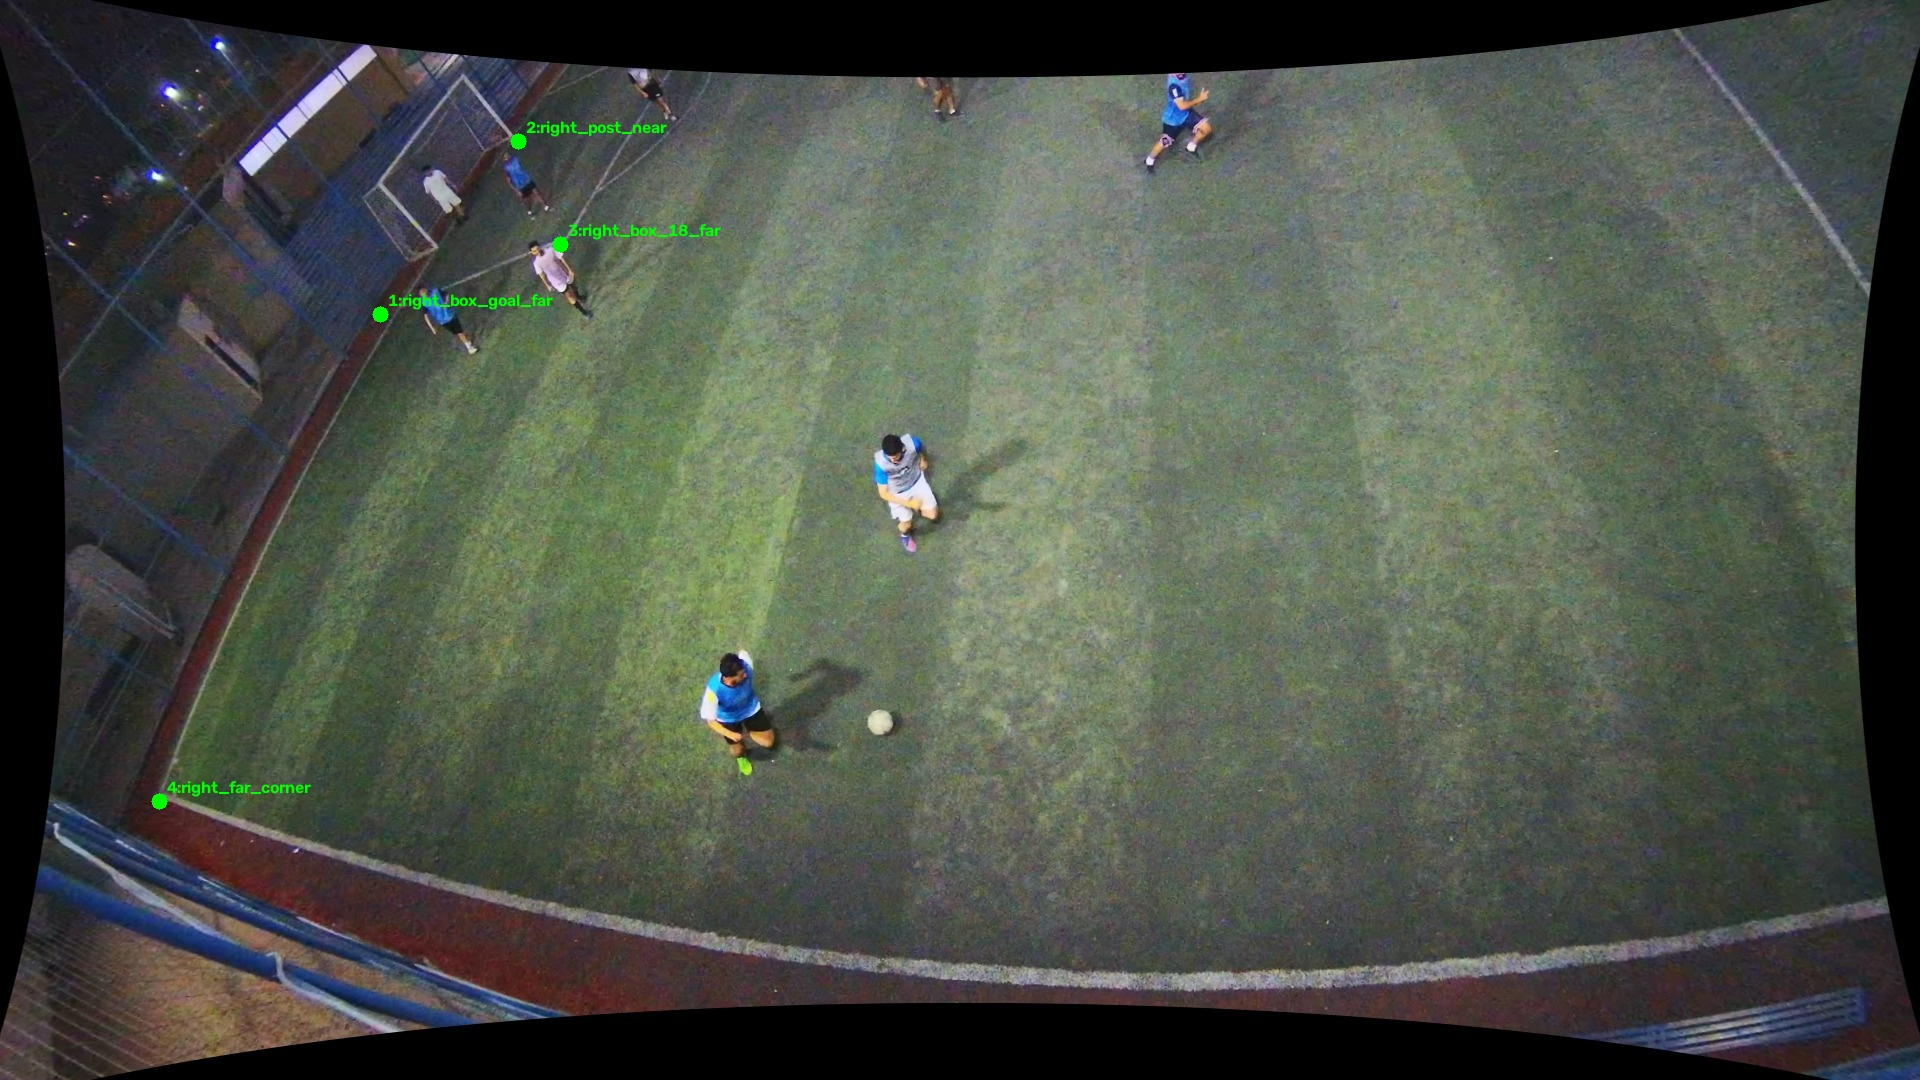
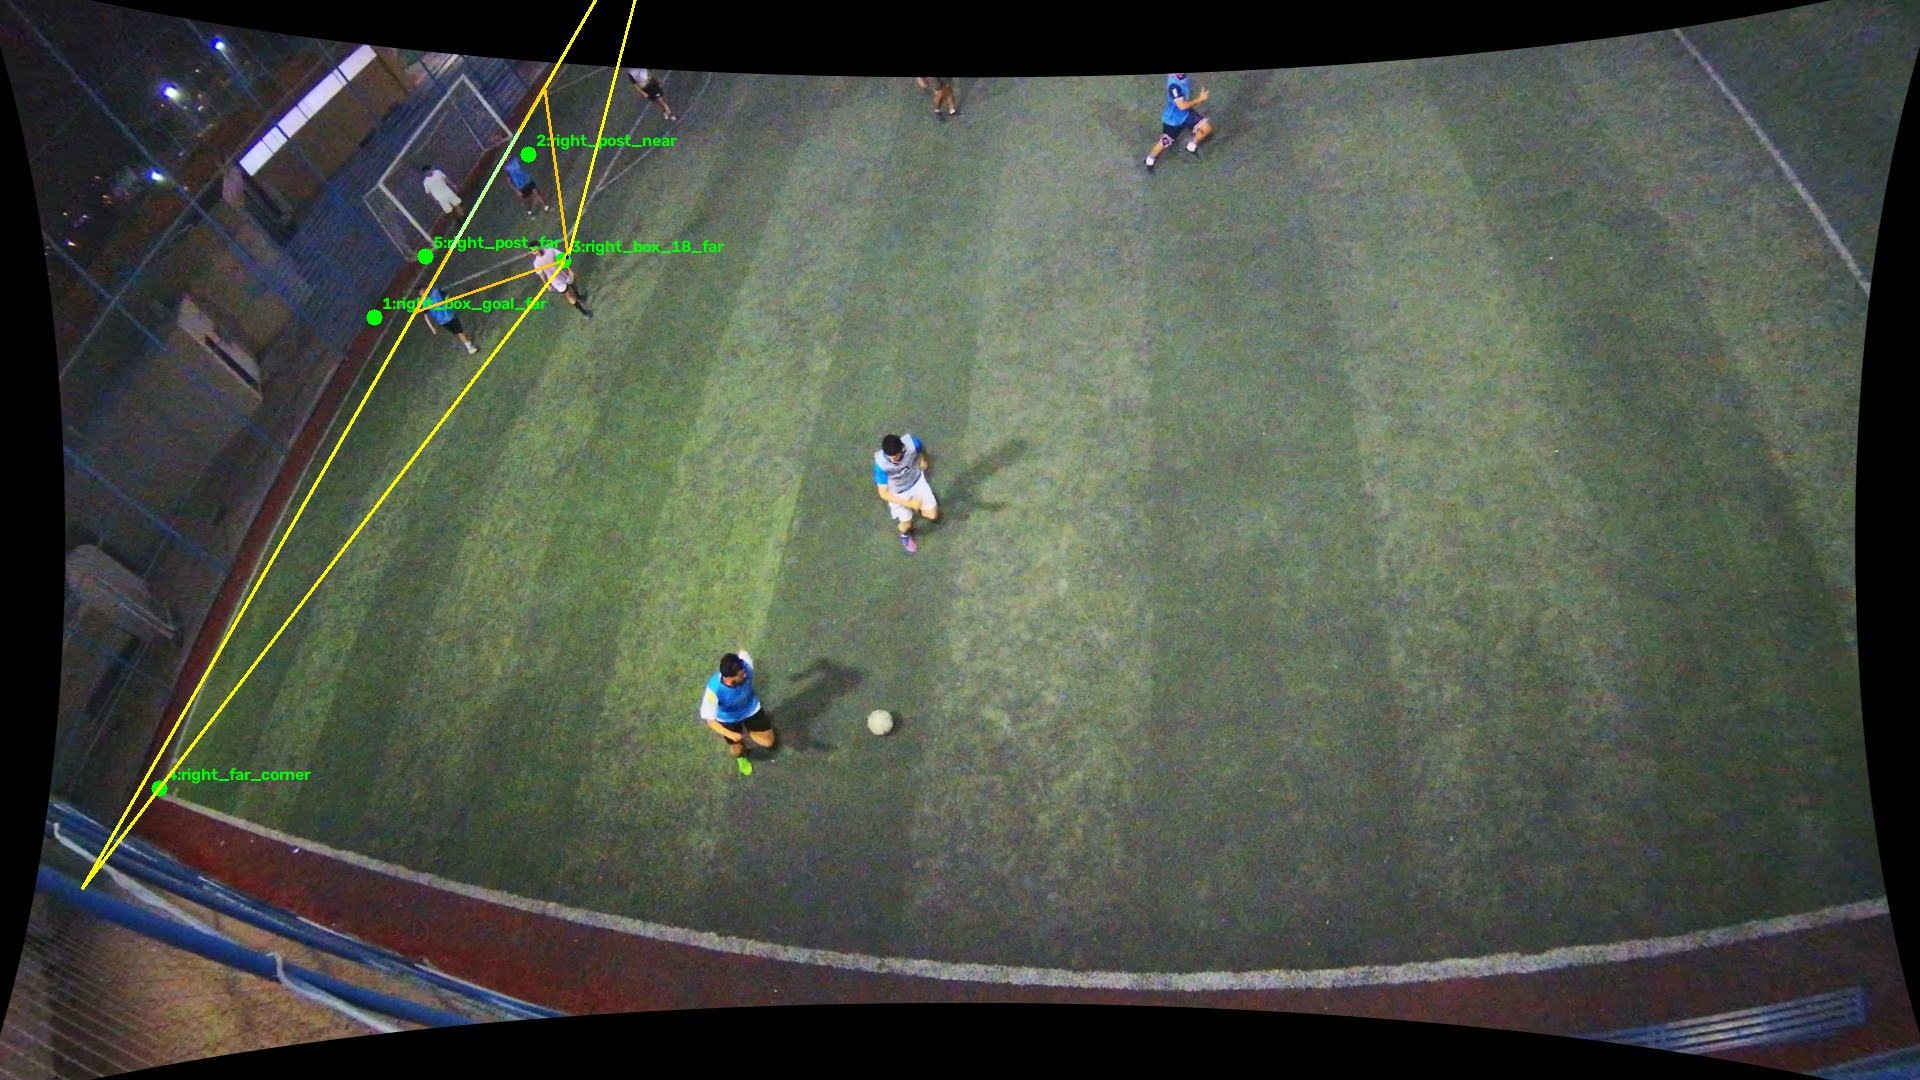
Wire Brown undistort into Match 3 map_ball_box for defished cams.
P7–P10 detections are undistorted with locked calib params before H so pitch maps match landmark stills; include A/B harness and tighter P9 clicks.

diff --git a/scripts/gold_set/test_match3_xy.py b/scripts/gold_set/test_match3_xy.py
@@ -37,11 +37,104 @@ def test_roundtrip() -> None:
         rec = load_calib(cam)
         if rec is None:
             raise AssertionError(f"missing calib {cam}")
+        errs = []
         for img, pitch in zip(rec["image_points"], rec["pitch_points"]):
             got = apply_H(rec["H"], img[0], img[1])
             err = ((got[0] - pitch[0]) ** 2 + (got[1] - pitch[1]) ** 2) ** 0.5
-            if err > 0.15:
-                raise AssertionError(f"{cam} roundtrip {err:.3f}m")
+            errs.append(err)
+        good = sum(1 for e in errs if e <= 0.25)
+        if rec.get("undistort"):
+            # Defish clicks can leave one outlier; H must still nail ≥3 junctions.
+            if good < 3:
+                raise AssertionError(f"{cam} only {good}/≥3 inliers≤0.25m {errs}")
+            if sorted(errs)[2] > 0.25:
+                raise AssertionError(f"{cam} 3rd-best err {sorted(errs)[2]:.3f}m")
+        else:
+            if max(errs) > 0.15:
+                raise AssertionError(f"{cam} roundtrip {max(errs):.3f}m")
+
+
+def test_undistort_params_on_defish_cams() -> None:
+    from src.mapping.match3_xy import calib_undistort_params
+
+    for cam in ("P7", "P8", "P9", "P10"):
+        rec = load_calib(cam)
+        if calib_undistort_params(rec) is None:
+            raise AssertionError(f"{cam} should lock undistort with landmarks")
+    for cam in ("P1", "P6", "P_Goal1", "P_Goal2"):
+        rec = load_calib(cam)
+        if calib_undistort_params(rec) is not None:
+            raise AssertionError(f"{cam} should stay on raw H")
+
+
+def test_undistort_px_matches_remap() -> None:
+    from src.mapping.match3_xy import undistort_px
+
+    rec = load_calib("P8")
+    u = rec["undistort"]
+    w, h = rec["image_wh"]
+    k_mat = __import__("numpy").array(
+        [[w, 0.0, w / 2.0], [0.0, w, h / 2.0], [0.0, 0.0, 1.0]], dtype="float64"
+    )
+    dist = __import__("numpy").array(
+        [u["k1"], u["k2"], u["p1"], u["p2"], 0.0], dtype="float64"
+    )
+    import cv2
+    import numpy as np
+
+    new_k, _ = cv2.getOptimalNewCameraMatrix(k_mat, dist, (w, h), u["alpha"], (w, h))
+    map1, map2 = cv2.initUndistortRectifyMap(
+        k_mat, dist, None, new_k, (w, h), cv2.CV_32FC1
+    )
+    for ux, uy in rec["image_points"]:
+        ix, iy = int(round(ux)), int(round(uy))
+        if not (0 <= ix < w and 0 <= iy < h):
+            continue
+        rx, ry = float(map1[iy, ix]), float(map2[iy, ix])
+        if rx < 0 or ry < 0:
+            continue
+        gx, gy = undistort_px(rx, ry, w, h, u)
+        err = ((gx - ux) ** 2 + (gy - uy) ** 2) ** 0.5
+        if err > 2.0:
+            raise AssertionError(f"P8 undistort_px err {err:.2f}px at {ux,uy}")
+
+
+def test_map_ball_uses_undistort_for_raw_foot() -> None:
+    """Raw pixel under a defished landmark click should map near its pitch point."""
+    import cv2
+    import numpy as np
+
+    rec = load_calib("P8")
+    u = rec["undistort"]
+    w, h = rec["image_wh"]
+    k_mat = np.array(
+        [[w, 0.0, w / 2.0], [0.0, w, h / 2.0], [0.0, 0.0, 1.0]], dtype=np.float64
+    )
+    dist = np.array([u["k1"], u["k2"], u["p1"], u["p2"], 0.0], dtype=np.float64)
+    new_k, _ = cv2.getOptimalNewCameraMatrix(k_mat, dist, (w, h), u["alpha"], (w, h))
+    map1, map2 = cv2.initUndistortRectifyMap(
+        k_mat, dist, None, new_k, (w, h), cv2.CV_32FC1
+    )
+    ux, uy = rec["image_points"][0]
+    pitch = rec["pitch_points"][0]
+    ix, iy = int(round(ux)), int(round(uy))
+    rx, ry = float(map1[iy, ix]), float(map2[iy, ix])
+    # foot box: height 20 → foot at (rx, ry)
+    box = [rx - 10, ry - 20, 20, 20]
+    hit = map_ball_box(rec, box, 0.99, rec["image_wh"])
+    if hit is None:
+        raise AssertionError("defish map should hit for landmark raw foot")
+    err = ((hit["xy"][0] - pitch[0]) ** 2 + (hit["xy"][1] - pitch[1]) ** 2) ** 0.5
+    if err > 0.5:
+        raise AssertionError(f"raw→undistort→H err {err:.3f}m")
+    # Without undistort, same raw foot should be worse away from optical center
+    bad = map_ball_box(rec, box, 0.99, rec["image_wh"], apply_undistort=False)
+    if bad is not None:
+        bad_err = ((bad["xy"][0] - pitch[0]) ** 2 + (bad["xy"][1] - pitch[1]) ** 2) ** 0.5
+        if bad_err <= err + 0.05 and (abs(rx - w / 2) > 200 or abs(ry - h / 2) > 150):
+            raise AssertionError(
+                f"skipping undistort should hurt edge landmark ({bad_err:.3f} vs {err:.3f})"
+            )
 
 
 def test_off_pitch_dropped() -> None:
@@ -60,7 +153,11 @@ def test_far_hull_dropped() -> None:
 
     rec = load_calib("P9")
     pts = rec["image_points"]
-    row = map_ball_box(rec, [1860, 20, 20, 20], 0.99, rec["image_wh"])
+    # Far corner of frame in *defished* space (image_points space); skip
+    # product undistort so we probe hull only.
+    row = map_ball_box(
+        rec, [1860, 20, 20, 20], 0.99, rec["image_wh"], apply_undistort=False
+    )
     sup = hull_support(1900, 10, pts)
     if sup >= MIN_SUPPORT and row is not None:
         raise AssertionError(f"far P9 pixel should be weak support {sup} {row}")
@@ -235,6 +332,9 @@ def test_f3_ghost_prune() -> None:
 def main() -> int:
     test_foot_not_center()
     test_roundtrip()
+    test_undistort_params_on_defish_cams()
+    test_undistort_px_matches_remap()
+    test_map_ball_uses_undistort_for_raw_foot()
     test_off_pitch_dropped()
     test_far_hull_dropped()
     test_hull_image_points_expand()

diff --git a/scripts/gold_set/ab_match3_undistort_map.py b/scripts/gold_set/ab_match3_undistort_map.py
@@ -1,0 +1,143 @@
+#!/usr/bin/env python3
+"""A/B: defish-aware map_ball_box vs raw H on Match 3 strips (emit P >= 0.80)."""
+from __future__ import annotations
+
+import json
+import math
+import sys
+from pathlib import Path
+
+ROOT = Path(__file__).resolve().parents[2]
+sys.path.insert(0, str(ROOT))
+sys.path.insert(0, str(ROOT / "scripts" / "gold_set"))
+
+from eval_match2_top_left_multicam_baseline import cache_load  # noqa: E402
+from multicam_select_policy import MATCH3_THR_BY_CAM, filter_active  # noqa: E402
+from score_match3_ball_m1 import HIT_M, infer_cache_stride  # noqa: E402
+from src.mapping.match3_xy import (  # noqa: E402
+    HOLD_MAX_GAP,
+    fuse_balls_with_hold,
+    load_calib,
+    map_ball_box,
+)
+
+OUT = ROOT / "reports/eval_match3/improve_eng_loop/undistort_map_ab.json"
+STRIPS = [
+    ROOT / "data/processed/gold_sets/match3_quad_p10_31/labels.json",
+    ROOT / "data/processed/gold_sets/match3_quad_p8_87/labels.json",
+]
+CAMS = ["P1", "P6", "P7", "P8", "P9", "P10", "P_Goal1", "P_Goal2"]
+WH = (1920, 1080)
+
+
+def mapped_at(dets, i, calibs, cams, apply_undistort):
+    active = filter_active(dets, i, cams, MATCH3_THR_BY_CAM)
+    rows = []
+    for cam, pred_rows in active.items():
+        rec = calibs.get(cam)
+        if rec is None:
+            continue
+        box, conf, _ = pred_rows[0]
+        hit = map_ball_box(
+            rec,
+            box,
+            float(conf),
+            frame_wh=WH,
+            apply_undistort=apply_undistort,
+        )
+        if hit is not None:
+            rows.append(hit)
+    return rows
+
+
+def score(labels, dets, calibs, focus, stride, apply_undistort):
+    cams = [c for c in CAMS if c in dets]
+    tp = fp = emit = clear = clear_emit = 0
+    errs = []
+    prev = None
+    gap = HOLD_MAX_GAP + 1
+    for fr in labels["frames"]:
+        i = int(fr["i"])
+        if stride > 1 and i % stride != 0:
+            # still allow F0 hold path via fuse_balls_with_hold
+            pass
+        seed = (fr.get("cams") or {}).get(focus) or {}
+        gold = seed.get("gold_xy")
+        is_clear = bool(seed.get("clear")) and gold is not None
+        if is_clear:
+            clear += 1
+        if stride > 1 and i % stride != 0:
+            rows = []
+        else:
+            rows = mapped_at(dets, i, calibs, cams, apply_undistort)
+        out = fuse_balls_with_hold(prev, rows, gap)
+        if out is None:
+            gap += 1
+            continue
+        if out.get("hold"):
+            gap += 1
+        else:
+            prev = out
+            gap = 0
+        emit += 1
+        if not is_clear or gold is None:
+            continue
+        clear_emit += 1
+        err = math.hypot(out["xy"][0] - gold[0], out["xy"][1] - gold[1])
+        errs.append(err)
+        if err <= HIT_M:
+            tp += 1
+        else:
+            fp += 1
+    p_emit = tp / emit if emit else 0.0
+    return {
+        "emit": emit,
+        "tp": tp,
+        "fp": fp,
+        "clear": clear,
+        "clear_emit": clear_emit,
+        "P_emit": round(p_emit, 4),
+        "mean_err_m": round(sum(errs) / len(errs), 3) if errs else None,
+        "pass": p_emit >= 0.80 if emit else False,
+    }
+
+
+def main() -> int:
+    calibs = {c: load_calib(c) for c in CAMS}
+    calibs = {c: v for c, v in calibs.items() if v}
+    rows = []
+    for path in STRIPS:
+        if not path.is_file():
+            print(f"skip missing {path}")
+            continue
+        labels = json.loads(path.read_text(encoding="utf-8"))
+        focus = labels.get("focus_cam") or "P10"
+        cache_rel = labels.get("det_cache")
+        if not cache_rel:
+            print(f"skip no det_cache in {path}")
+            continue
+        cache = ROOT / cache_rel
+        if not cache.is_file():
+            print(f"skip missing cache {cache}")
+            continue
+        dets = cache_load(cache)
+        stride = infer_cache_stride(dets) or 1
+        for name, flag in (("product_undistort", True), ("raw_no_undistort", False)):
+            s = score(labels, dets, calibs, focus, stride, flag)
+            s["strip"] = path.parent.name
+            s["variant"] = name
+            s["det_cache"] = cache_rel
+            s["det_cache_stride"] = stride
+            rows.append(s)
+            print(
+                f"{path.parent.name} {name}: P_emit={s['P_emit']} "
+                f"emit={s['emit']} mean_err={s['mean_err_m']} pass={s['pass']}"
+            )
+    OUT.parent.mkdir(parents=True, exist_ok=True)
+    OUT.write_text(json.dumps({"rows": rows}, indent=2), encoding="utf-8")
+    print(f"wrote {OUT}")
+    return 0 if rows else 1
+
+
+if __name__ == "__main__":
+    raise SystemExit(main())

diff --git a/src/mapping/match3_xy.py b/src/mapping/match3_xy.py
@@ -75,6 +75,51 @@ def apply_H(H: np.ndarray, x: float, y: float) -> tuple[float, float] | None:
     return float(v[0] / v[2]), float(v[1] / v[2])
 
 
+def calib_undistort_params(calib: dict) -> dict | None:
+    """Brown undistort locked with landmarks (P7–P10). None = raw H path."""
+    u = calib.get("undistort")
+    if not u:
+        return None
+    return {
+        "k1": float(u.get("k1", 0.0)),
+        "k2": float(u.get("k2", 0.0)),
+        "p1": float(u.get("p1", 0.0)),
+        "p2": float(u.get("p2", 0.0)),
+        "alpha": float(u.get("alpha", 0.5)),
+    }
+
+
+def undistort_px(x: float, y: float, w: float, h: float, params: dict) -> tuple[float, float]:
+    """Same Brown recipe as match3_landmarks stills (getOptimalNewCameraMatrix + undistort)."""
+    w_i, h_i = int(round(w)), int(round(h))
+    if w_i < 2 or h_i < 2:
+        return float(x), float(y)
+    k_mat = np.array(
+        [[w_i, 0.0, w_i / 2.0], [0.0, w_i, h_i / 2.0], [0.0, 0.0, 1.0]],
+        dtype=np.float64,
+    )
+    dist = np.array(
+        [
+            float(params["k1"]),
+            float(params["k2"]),
+            float(params["p1"]),
+            float(params["p2"]),
+            0.0,
+        ],
+        dtype=np.float64,
+    )
+    new_k, _ = cv2.getOptimalNewCameraMatrix(
+        k_mat, dist, (w_i, h_i), float(params["alpha"]), (w_i, h_i)
+    )
+    pts = cv2.undistortPoints(
+        np.array([[[float(x), float(y)]]], dtype=np.float64),
+        k_mat,
+        dist,
+        P=new_k,
+    )
+    return float(pts[0, 0, 0]), float(pts[0, 0, 1])
+
+
 def hull_support(px: float, py: float, image_points: list) -> float:
     pts = np.asarray(image_points, dtype=np.float32)
     if len(pts) < 3:
@@ -102,10 +147,27 @@ def hull_points(calib: dict) -> list:
     return list(calib.get("image_points") or [])
 
 
-def map_ball_box(calib: dict, box, conf: float, frame_wh=None) -> dict | None:
+def map_ball_box(
+    calib: dict,
+    box,
+    conf: float,
+    frame_wh=None,
+    *,
+    apply_undistort: bool | None = None,
+) -> dict | None:
+    """Map detection box foot to Pitch 1 meters.
+
+    If calib has ``undistort`` (defished landmark H), raw detection pixels are
+    undistorted with the same Brown params before H / hull support.
+    """
     wh = frame_wh or calib.get("image_wh") or [1920, 1080]
     fx, fy = bbox_foot(box)
     px, py = scale_px(fx, fy, wh, calib.get("image_wh") or wh)
+    params = calib_undistort_params(calib)
+    use_u = bool(params) if apply_undistort is None else bool(apply_undistort and params)
+    if use_u:
+        cw, ch = calib.get("image_wh") or wh
+        px, py = undistort_px(px, py, cw, ch, params)
     xy = apply_H(calib["H"], px, py)
     if xy is None:
         return None

diff --git a/docs/product/MATCH3_CAPTURE.md b/docs/product/MATCH3_CAPTURE.md
@@ -40,4 +40,6 @@ python3 serve_viewer.py
 
 Open http://127.0.0.1:8080/match3-fisheye — saves `reports/eval_match3/fisheye_dashboard/tags.json` (does not change H until a later undistort pass).
 
-Product candidates (`tag=fisheye`, `use_undistort=true`): **P7** (`k1=-0.30`, `k2=-0.08`, `α=0.80`), **P8** (`k1=-0.30`, `α=0.80`), **P9** (`k1=-0.40`, `α=0.80`), **P10** (`k1=-0.32`, `α=0.80`). Brown `cv2.undistort` only. Next: re-click landmarks / re-fit H on **undistorted** stills for those cams (current H is on raw frames).
+Product candidates (`tag=fisheye`, `use_undistort=true`): **P7** (`k1=-0.30`, `k2=-0.08`, `α=0.80`), **P8** (`k1=-0.30`, `α=0.80`), **P9** (`k1=-0.40`, `α=0.80`), **P10** (`k1=-0.32`, `α=0.80`). Brown `cv2.undistort` only.
+
+Landmarks / H for those cams are on **defished** stills. Product map (`src/mapping/match3_xy.map_ball_box`) undistorts raw detection feet with the same params before H. A/B: `python3 scripts/gold_set/ab_match3_undistort_map.py`.
